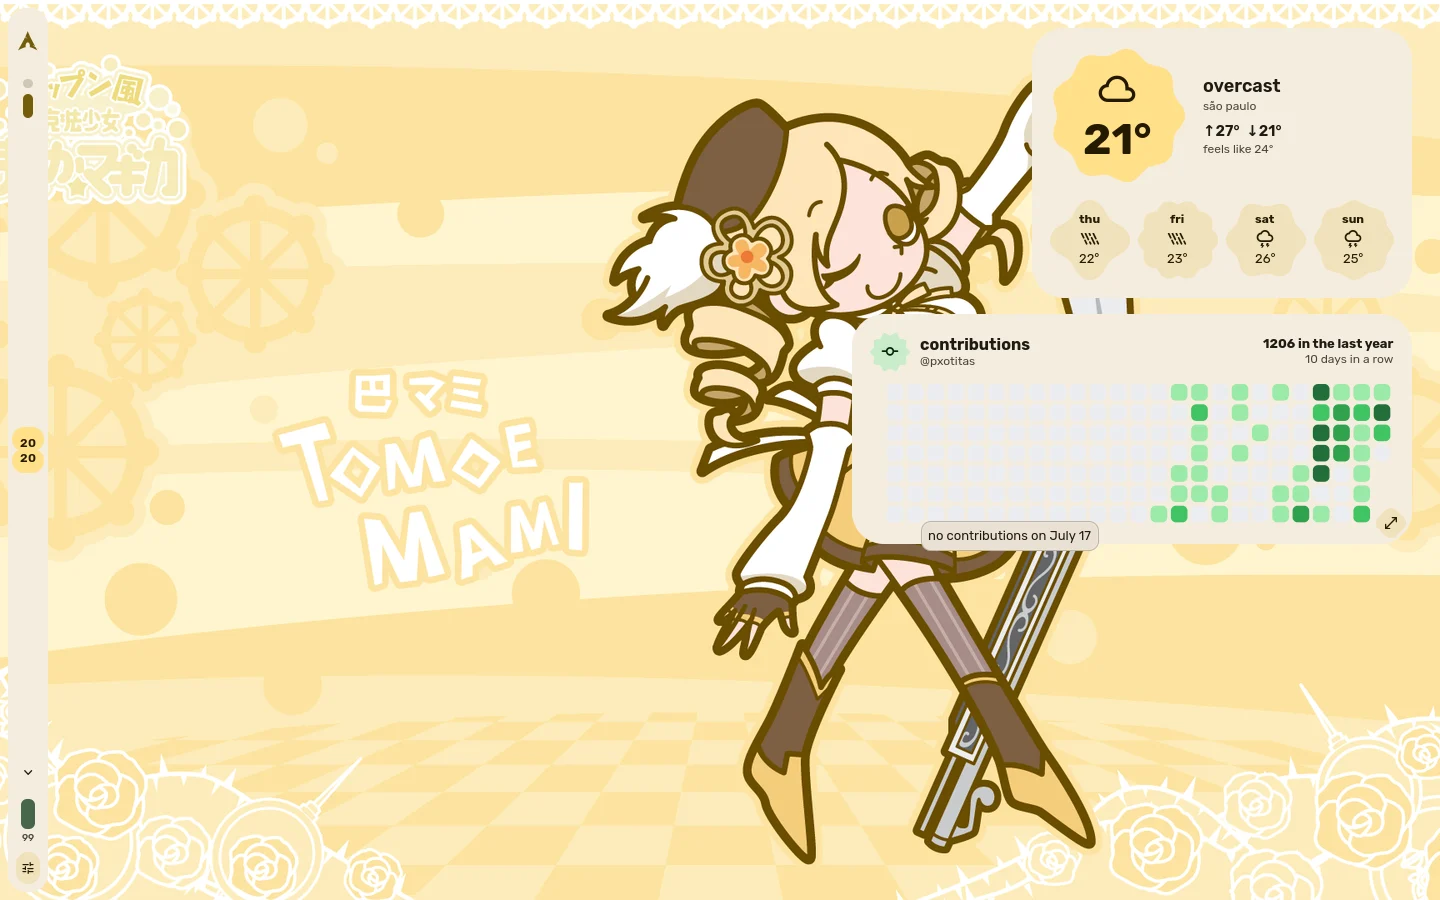
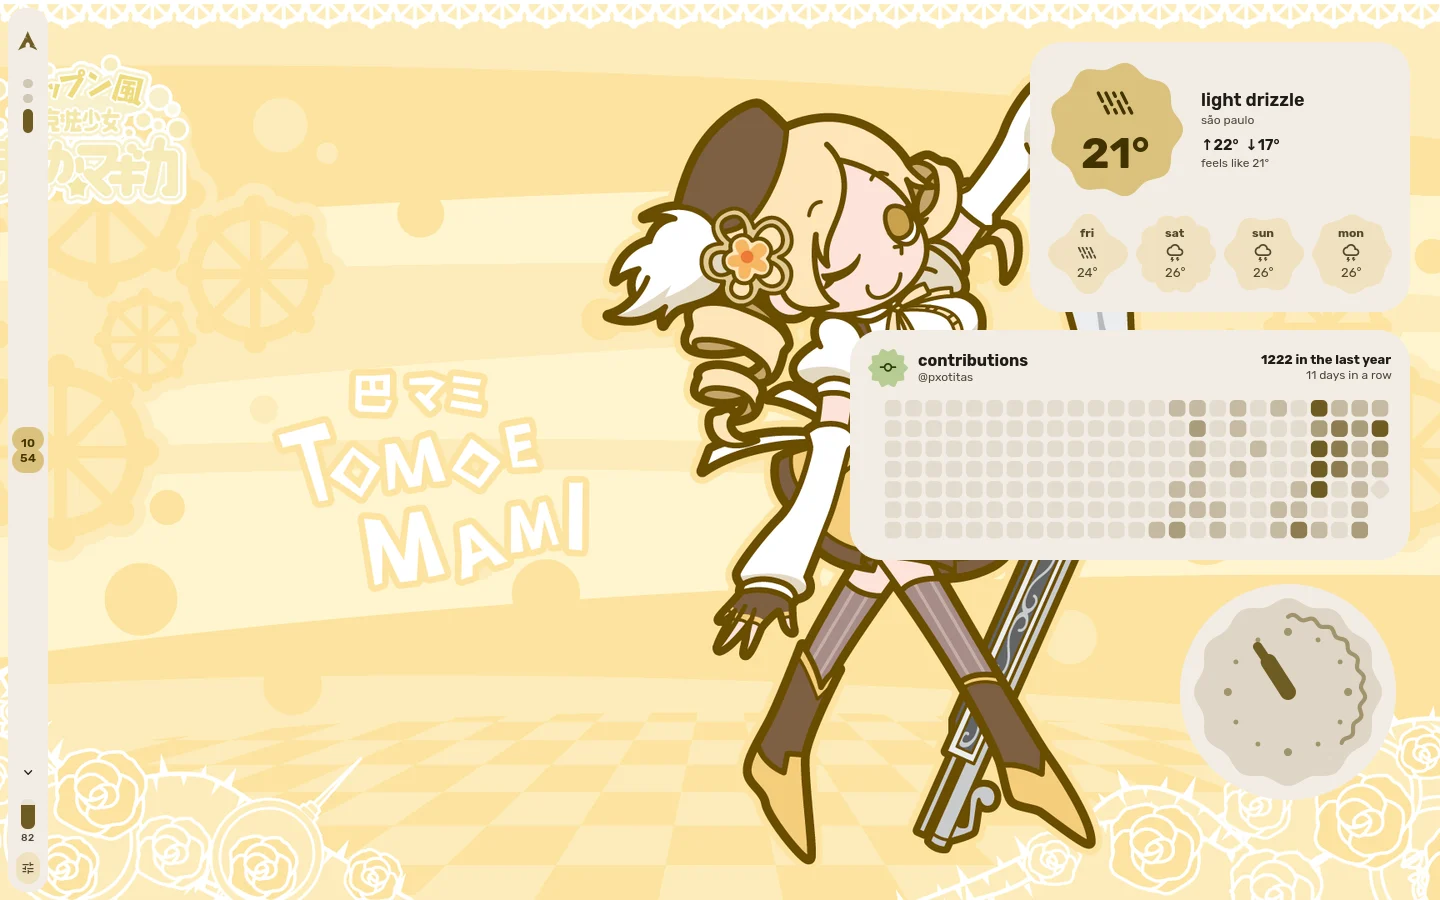
docs: the settings tree, the bar editor and arranging the desktop widgets

diff --git a/docs/configuration.md b/docs/configuration.md
@@ -1,48 +1,110 @@
 # configuration
 
-almost everything can be changed from the window (Mod+Comma). it writes to
-`~/.config/octopus/octopus.toml`, which you can also edit by hand.
+almost everything can be changed from the settings window (Mod+Comma, or
+`octopus settings`). it writes to `~/.config/octopus/octopus.toml`, which you
+can also edit by hand.
+
+## the settings window
+
+a tree on the left: five big categories, each with its branches.
+
+- **look**: colors (mode, palette style, contrast) and language
+- **bar**: the editor, presets and shape
+- **panels**: dash, notifications, weather and music
+- **desktop**: widgets, contributions and the dock
+- **system**: lock screen and about
+
+`octopus settings bar/editor` (or just `octopus settings bar`) opens straight
+on a page. changes wait in a draft until you press **apply**.
+
+## the bar editor
+
+the bar drawn as it will look. tap a module to change it in the inspector
+beside it; drag it to another spot, or to the catalog to take it out; drag
+new ones in from the catalog.
+
+| module | what it is | options |
+|---|---|---|
+| `logo` | opens the launcher | glyph, what a click opens, background, corners |
+| `workspaces` | niri's workspaces | dots or numbers |
+| `clock` | hours over minutes; opens the dash | 24 or 12 hours, bun/pill/rounded/square, background |
+| `tray` | background apps | |
+| `battery` | a pill that fills up | show the percentage |
+| `controls` | control center, wi-fi, bluetooth, sound, power | which buttons, in a drawer or always shown |
+| `cpu`, `memory`, `temperature` | usage and heat | show the value, background, corners |
+| `brightness`, `volume` | scroll to change | show the value, background, corners |
+| `idle` | keeps the screen awake | background, corners |
+| `media` | play and pause | background, corners |
+| `notifications`, `power` | shortcuts | background, corners |
+
+**presets** sets the whole bar at once: default, minimal, monitor, music and
+focus. the bar changes when you apply, without restarting.
+
+## octopus.toml
 
 ```toml
 language = "auto"          # auto follows LANG; "pt" or "en"
 
+[look]
+scheme = "tonal-spot"      # matugen's palette: expressive, vibrant, fidelity, content,
+                           # neutral, monochrome, rainbow, fruit-salad
+contrast = 0.0             # -1 to 1
+
 [bar]
 position = "left"          # or "right"
-width = 40
+width = 52
+spacing = 4                # between modules
 style = "floating"         # or "flush": against the edge, concave corners
 top = ["logo", "workspaces"]
 center = ["clock"]
 bottom = ["tray", "battery", "controls"]
 
-[dock]
-enabled = false
-mode = "smart"             # "fixed", "autohide" or "smart"
-pinned = ["firefox.desktop"]  # right-click an icon to pin it
-size = 44                  # icon size, in pixels
-magnify = true             # icons swell under the pointer
+[bar.modules.clock]        # one table per module you changed
+background = "primary"     # none, tonal, primary, surface
+shape = "bun"              # bun (clock only), round, soft, square
+variant = "24h"            # the module's own choice: 12h, numbers, a glyph…
+text = false               # the value under the icon
+action = ""                # the logo: launcher, spotlight or dash
+items = []                 # the controls' buttons
+
+[dash]
+page = "overview"          # or media, weather, wallpapers
 
 [weather]
 place = ""                 # a city, or "lat,lon"; empty uses your ip
-
-[desktop]
-enabled = true             # widgets under the windows
-widgets = ["weather", "contributions"]
-github = ""                # a github user, for the contributions calendar
-contributions_colors = "github"  # or "theme", the wallpaper's color
+unit = "celsius"           # or "fahrenheit"
 
 [notifications]
 timeout_ms = 5000
 max_popups = 3
+position = "top-right"     # top-left, bottom-right, bottom-left
 
 [media]
+lyrics = true              # in the dash
+lyrics_offset_ms = 0
+
+[lock]
 lyrics = true
+
+[dock]
+enabled = false
+mode = "smart"             # "fixed", "autohide" or "smart"
+pinned = ["firefox.desktop"]  # right-click an icon to pin it
+size = 44
+magnify = true
+
+[desktop]
+enabled = true
+widgets = ["weather", "contributions"]  # also clock, media, calendar
+github = ""                # a github user, for the contributions calendar
+contributions_colors = "github"  # or "theme", the wallpaper's color
 ```
 
 ## when it applies
 
-- **bar**: right away (waybar reloads on its own)
-- **language and dock**: octopus restarts on its own when you apply
-- **weather, notifications, lyrics**: after `octopus restart`
+- **bar and lyrics' timing**: right away
+- **colors (mode)**: right away; palette style and contrast repaint everything when applied
+- **everything else**: octopus restarts on its own when you apply
 
 ## your own css
 
@@ -66,8 +128,15 @@ a layer under the windows, so they show wherever no window covers them:
 - **contributions**: the calendar from `github`'s profile, the little green squares, with the
   year's total and the current streak. hover a square for its day. it shows as many weeks as it
   is wide, and refreshes every half hour (no token).
+- **clock**: analog, on a cookie.
+- **music**: what's playing, with the controls.
+- **calendar**: the whole month.
 
-drag a widget to move it, and drag the handle in its corner to resize it. where they sit is
-kept in `~/.local/state/octopus/desktop.json`; delete that file to put them back in the corner.
+they stay put until you arrange them: right-click the desktop and pick
+**arrange widgets** (or `octopus desktop arrange`). the desktop comes up over
+the windows; drag a widget to move it, its corner to resize it, and use the
+case at the bottom to add the others (drag one out, or click it) or put one
+away (drop it on the case, or its ×). **done** or <kbd>esc</kbd> ends it.
 
-changing `[desktop]` in the settings restarts octopus on its own.
+where they sit is kept in `~/.local/state/octopus/desktop.json`; delete that
+file to put them back in the corner.
